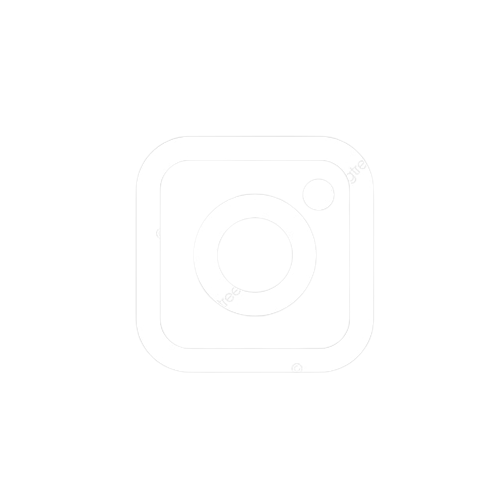
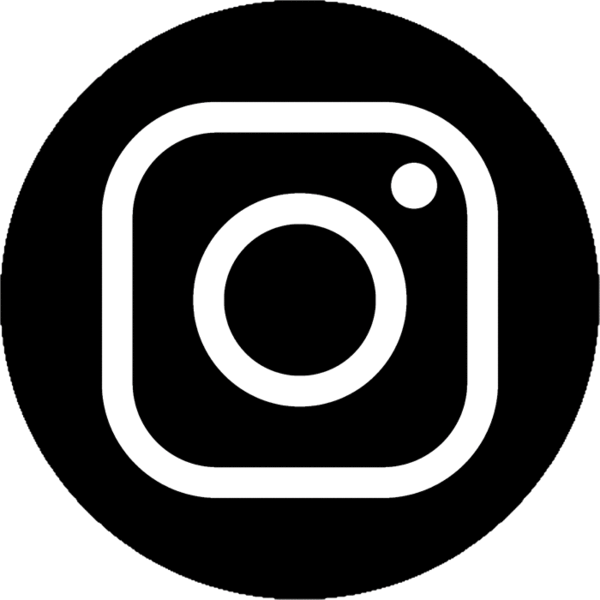
.

diff --git a/UC9/index.html b/UC9/index.html
@@ -26,7 +26,7 @@
                 <li><a href="">Home</a></li>
                 <li><a href="">Produtos</a></li>
                 <li><a href="">Promoções</a></li>
-                <li><a href="">Menu</a></li>
+                <li><a href="">Categorias</a></li>
                 </ul>
             </nav>
         </div>
@@ -57,30 +57,61 @@
                 <img src="/img/consoles.png" alt="Console" whidth="160" height="120" id="conso">
                 <input type="submit" id="cons" value="CONSOLE" >
             </a>
-            <a href="">
+            <a href="#">
                 <img src="/img/acessories.png" alt="Acessorios" whidth="160" height="120" id="aces">
                 <input type="submit" id="acess" value="ACESSORIES" >
             </a>
-            <a href="">
+            <a href="#">
                 <img src="/img/computers.png" alt="Computadores" whidth="160" height="120" id="compu">
                 <input type="submit" id="comp" value="COMPUTERS" >
             </a>
-            <a href="">
+            <a href="#">
                 <img src="/img/games.png" alt="Games" whidth="160" height="120" id="gam">
                 <input type="submit" id="games" value="GAMES" >
             </a>
-            <a href="" >
+            <a href="#" >
                 <img src="/img/customize.png" alt="Customize" whidth="160" height="120" id="cus">
                 <input type="submit" id="cust" value="CUSTOMIZE" >
             </a>
-            <a href="" >
+            <a href="#" >
                 <img src="/img/combos.png" alt="Combos " whidth="160" height="120" id="combo">
                 <input type="submit" id="comb" value="COMBOS" >
             </a>
         </div>
     </main>
     <footer>
-        
+        <div class="inferior">
+            <div class="contatos">
+                <a href=""> <img src="img/local.png" alt="Localização" width="60" heigth="60" ></a>
+                <a href=""><img src="img/email.png" alt="Email de contato" width="60" heigth="60"></a>
+                <a href=""><img src="img/telefone.png" alt="Telefone para contato" width="60" heigth="60"></a>   
+            <div class="email">
+                            <input type="email">
+                            <a href=""><img src="img/colecao.png" alt="Coleção de Jogos" height="90" width="380"></a>
+                        </div>
+                        <div class="forNews" >
+                            <img src="img/facebook.png" alt="Facebook" height="50" width="50">
+                            <img src="img/instagram.png" alt="Instagram" height="50" width="50">
+                            <img src="img/discord.png" alt="Discord" height="50" width="50">
+                        </div>
+                        <div class="pagamento">
+                            <img src="img/visa.png" alt="Visa" height="30" width="30">
+                            <img src="" alt="">
+                            <img src="img/mastercard.png" alt="Mastercard" height="25" width="25">
+                            <img src="img/pay.png" alt="Paypal" height="30" width="30">
+                            <img src="" alt="">
+                        </div>
+                </ul>
+            </div>
+        </div>
     </footer>
+    <!-- Link para o JS do Bootstrap, (não remover!) -->
+<scrip src="https://cdn.jsdelivr.net/npm/bootstrap@5.1.3/dist/js/bootstrap.bundle.min.js" integrity="sha384-ka7Sk0Gln4gmtz2MlQnikT1wXgYsOg+OMhuP+IlRH9sENBO0LRn5q+8nbTov4+1p" crossorigin="anonymous">
+</script>
+<script>
+    let
+    
+
+</script>
 </body>
 </html>

diff --git a/UC9/css/style.css b/UC9/css/style.css
@@ -296,4 +296,53 @@ p{ /*final do retangulo2*/
     top: 11em;
     width: 175px;
 }
-
+ul{
+    
+}
+.inferior {
+    background: blue;
+    top:33em;   
+    position: relative;
+    top: 65em;
+    display: flex;
+}
+.inferior input{
+    position: absolute;
+    width: 312px;
+    height: 30px;
+    left: 31.5em;
+    top: 3em;
+    transform: translate(-40%, -40%);
+    background: #107b10;
+    padding: 10px;
+    border-radius: 20px;
+    display: flex;
+    justify-content: space-between;
+    align-items: center;
+}
+.contatos img{
+    display: flex;
+    justify-content: space-between;
+    align-items: center;
+}
+.email img{
+    position: absolute;
+    left: 31.5em;
+    top: 8em;
+    transform: translate(-40%, -40%);
+}
+.forNews img{
+    display: flex;
+    justify-content: space-between;
+    align-items: center;
+    left: 17em;
+    top: 3em;
+}
+.pagamentos{
+    display: ;
+    position: absolute;
+    justify-content: space-between;
+    align-items: center;
+    left: 17em;
+    top: 3em;
+}
